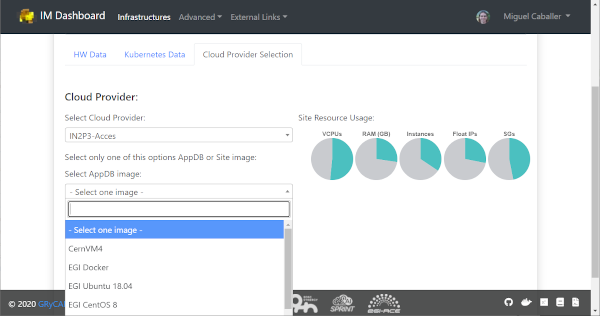
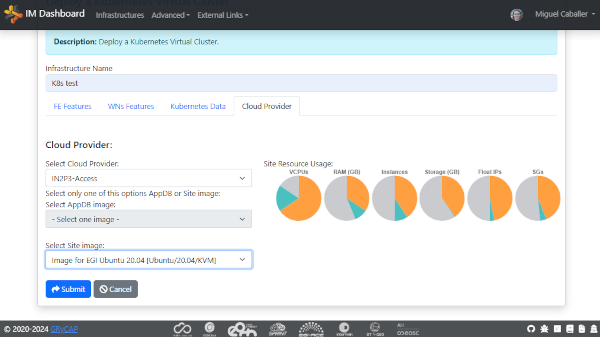
Update dash docs

diff --git a/doc/source/dashboard.rst b/doc/source/dashboard.rst
@@ -330,6 +330,18 @@ the user has to specify manually the AMI id of the image to use.
 
    Fig 8. Select Cloud Provider and Image.
 
+Furthermore, this tab will show the ammount of resources available in the selected Cloud provider.
+The user can easily check the resources available in the selected Cloud provider and if the current
+deployment will fit in the available resources. The information is shown in a set of pie charts
+showing the total resources available and the resources used by the current user. In case that the
+amnount of resources used by the user is too high, the pie chart will be shown in red and a message
+will be shown to the user indicating that the current deployment will not fit in the available resources.
+(:ref:`Fig. 9 <_figure_dash_resources>`)
+
+.. _figure_dash_resources:
+.. figure:: images/dash_resources.png
+
+   Fig 9. Cloud resources usage.
 
 Infrastructures
 ^^^^^^^^^^^^^^^^
@@ -346,13 +358,13 @@ both columns empty.
 .. _figure_dash_inf_list:
 .. figure:: images/dash_inf_list.png
 
-   Fig 9. List of infrastructures.
+   Fig 10. List of infrastructures.
 
 
 .. _figure_dash_inf_actions:
 .. figure:: images/dash_inf_actions.png
 
-   Fig 10. List of infrastructure Actions.
+   Fig 11. List of infrastructure Actions.
 
 **List of Actions**:
 
@@ -366,7 +378,7 @@ both columns empty.
 .. _figure_dash_add_nodes:
 .. figure:: images/dash_add_nodes.png
 
-   Fig 11. Add nodes page.
+   Fig 12. Add nodes page.
 
 * Show template: This action shows the original TOSCA template submitted to create the infrastructure.
 
@@ -382,7 +394,7 @@ both columns empty.
 .. _figure_dash_outputs:
 .. figure:: images/dash_outputs.png
 
-   Fig 12. TOSCA outputs.
+   Fig 13. TOSCA outputs.
 
 * Delete: Delete this infrastructure and all the asociated resources. It also has the option to "Force" de deletion.
   In this case the infrastructure will be removed from the IM service even if some cloud resources cannot be deleted.
@@ -394,16 +406,18 @@ both columns empty.
 
 * Reconfigure: Starts the reconfiguration of the infrastructure.
 
-* Change User: Add or change the ownership of the infrastructure at IM level. Setting an valid access token of other
+* Change User: Add or change the ownership of the infrastructure at IM level. Setting an valid share token of other
   user, the infrastructure can be shared or transfered to another user. If overwrite check is set the new user will be
   the unique new owner of the infrastructure, otherwise it will be added to the list of current users. If the new user
   does not have the correct credentials to access the cloud provider where the resources were deployed the user will
-  not be able to manage the cloud resources.
+  not be able to manage the cloud resources. To get the share token the user has to go to the infrastructure list page
+  an chlick on the "Token" button. The token will be shown in a modal form and the user can copy it to the clipboard
+  and then share it with the current owner of the infrastructure.
 
 .. _figure_dash_change_user:
 .. figure:: images/dash_change_user.png
 
-   Fig 13. Change/Add User modal form.
+   Fig 14. Change/Add User modal form.
 
 **VM Info page**:
 
@@ -417,7 +431,7 @@ the SSH credentials needed to access it. Second table will show other additional
 .. _figure_dash_vm_info:
 .. figure:: images/dash_vm_info.png
 
-   Fig 14. VM Info page.
+   Fig 15. VM Info page.
 
 In case of Resizing the VM the user must provide the new size of the VM in terms of number of CPUs and ammount of memory as
 show in :ref:`Fig. 15 <figure_dash_vm_resize>`.
@@ -425,4 +439,4 @@ show in :ref:`Fig. 15 <figure_dash_vm_resize>`.
 .. _figure_dash_vm_resize:
 .. figure:: images/dash_vm_resize.png
 
-   Fig 15. VM Resize modal form.
+   Fig 16. VM Resize modal form.
